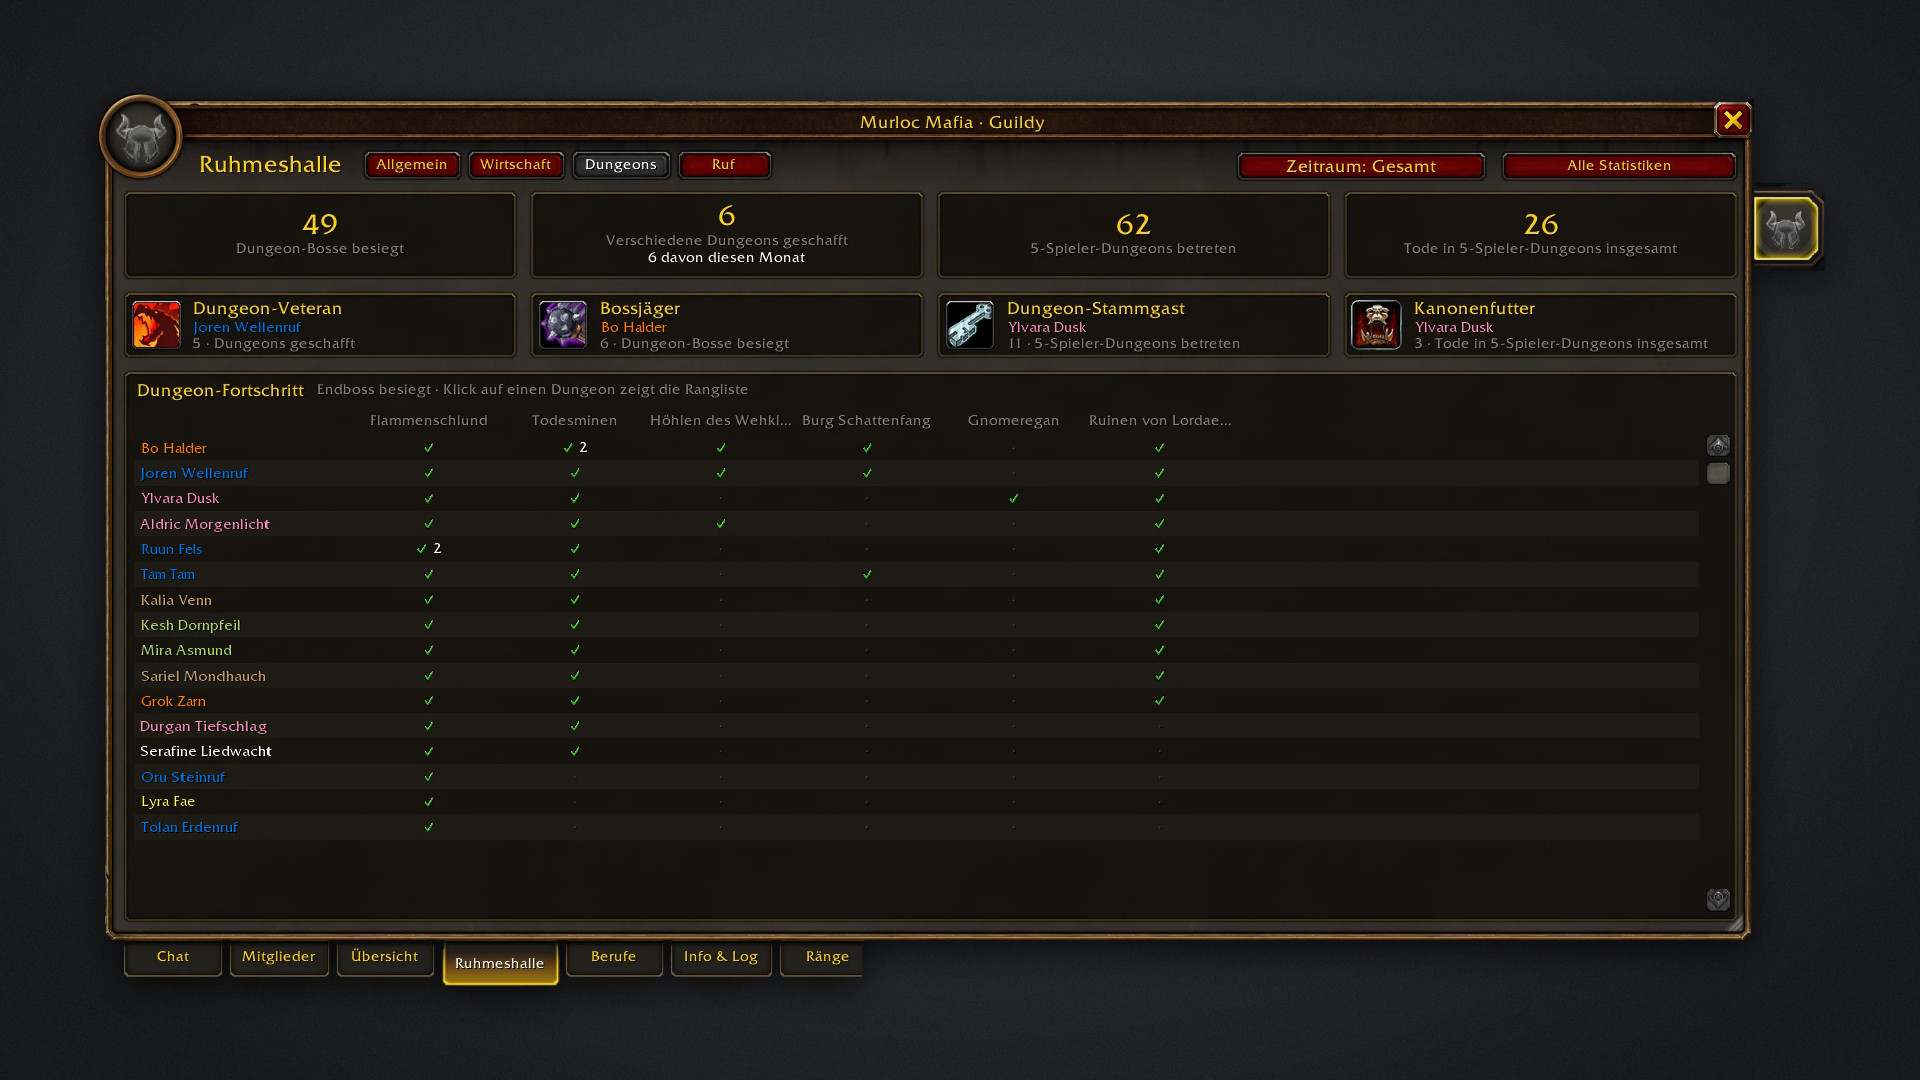
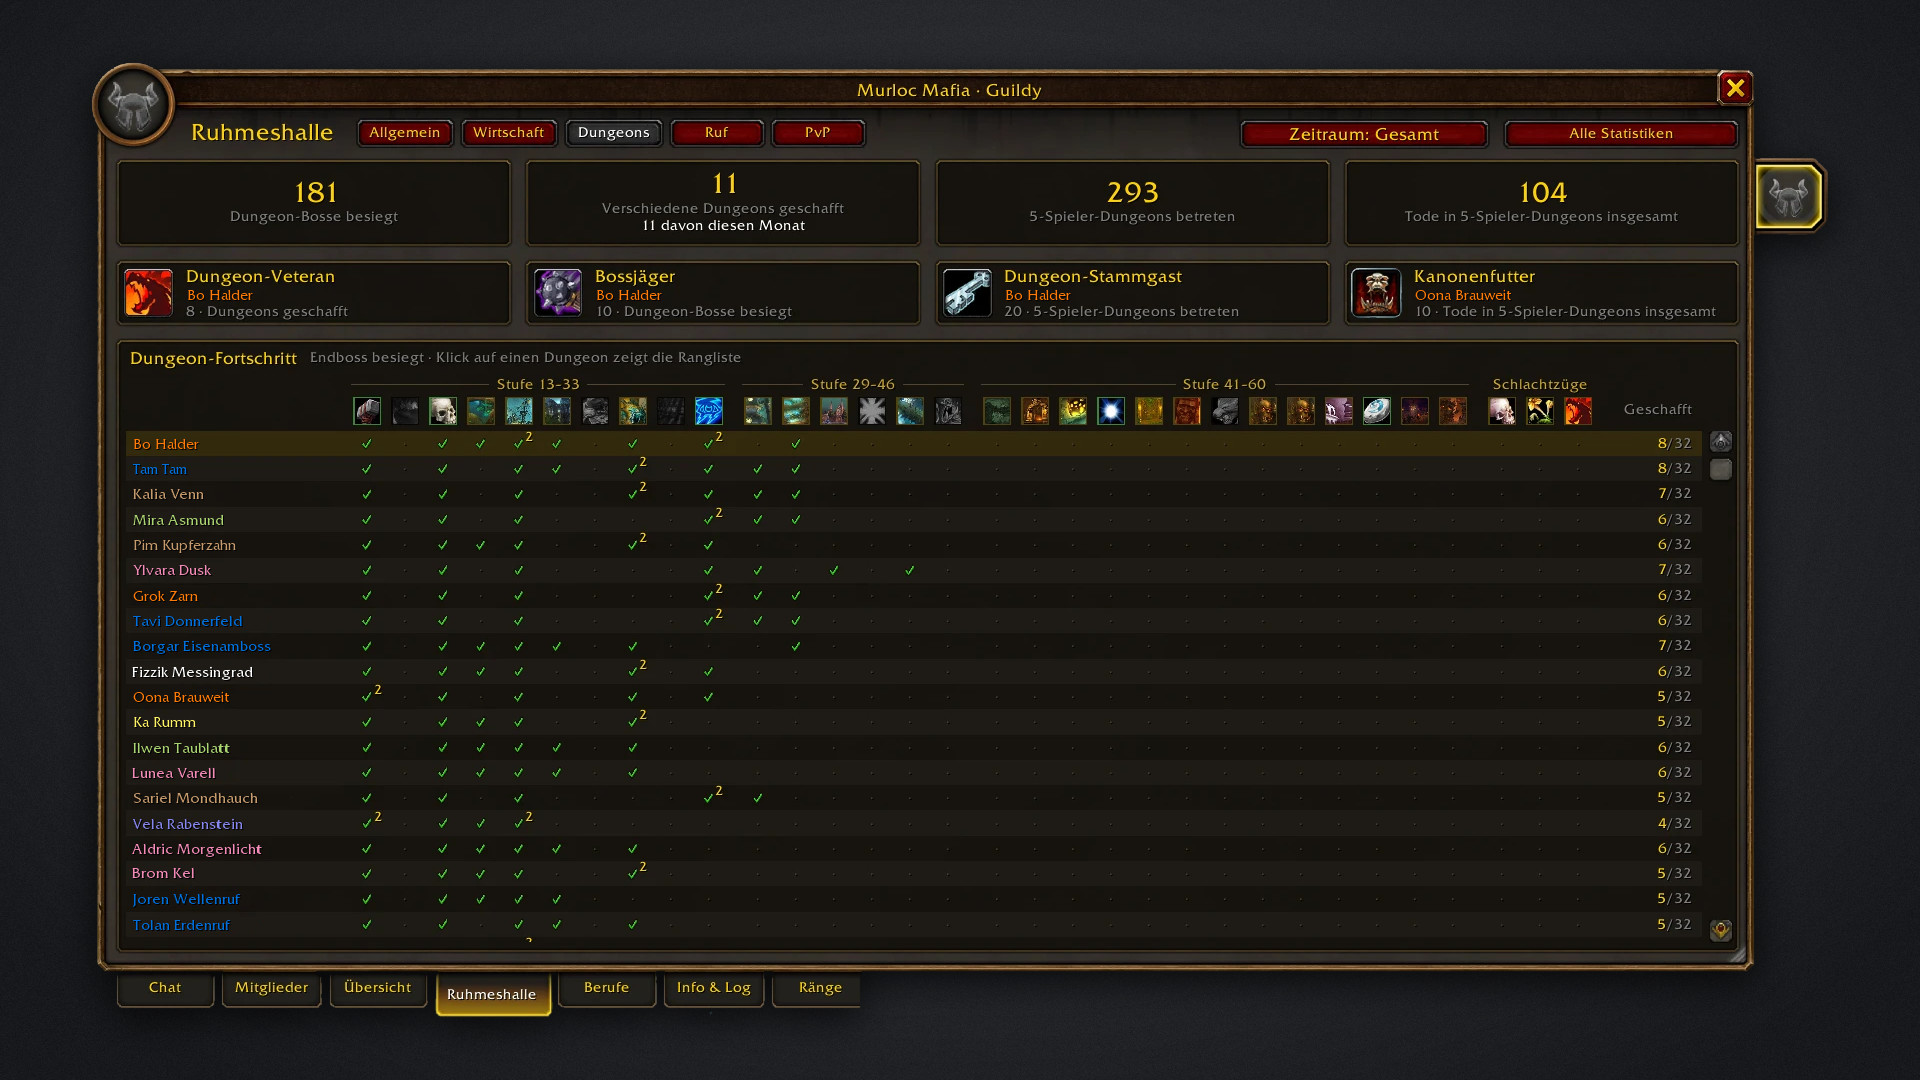
docs: gallery image for the reworked dungeon page

Changed region(s): [[0.0312, 0.0611, 0.9688, 0.9472]]

diff --git a/docs/curseforge.md b/docs/curseforge.md
@@ -57,7 +57,7 @@ Title and description per image (CurseForge allows 255 characters per descriptio
    - Description: Where the guild's gold comes from (quests, loot, vendors, auction house) and where it goes (flights, mail). Title cards for the top earners and traders, plus gold earned, spent and auctions per member.
 6. `media/gallery/06-hall-of-fame-dungeons.jpg`
    - Title: Hall of Fame: Dungeons
-   - Description: Dungeon bosses killed, dungeons cleared and entered, and deaths inside. The progress grid shows who has beaten which end boss; click a dungeon for its ranking.
+   - Description: Dungeon bosses killed, dungeons cleared and entered, and deaths inside. The progress grid covers all 32 dungeons and raids, grouped by level, and counts each member's clears; click a dungeon for its ranking.
 7. `media/gallery/07-hall-of-fame-reputation.jpg`
    - Title: Hall of Fame: Reputation
    - Description: Factions met and standings reached across the guild, with the reputation of every member from Friendly to Exalted. Switch between all time, this month and last month.
